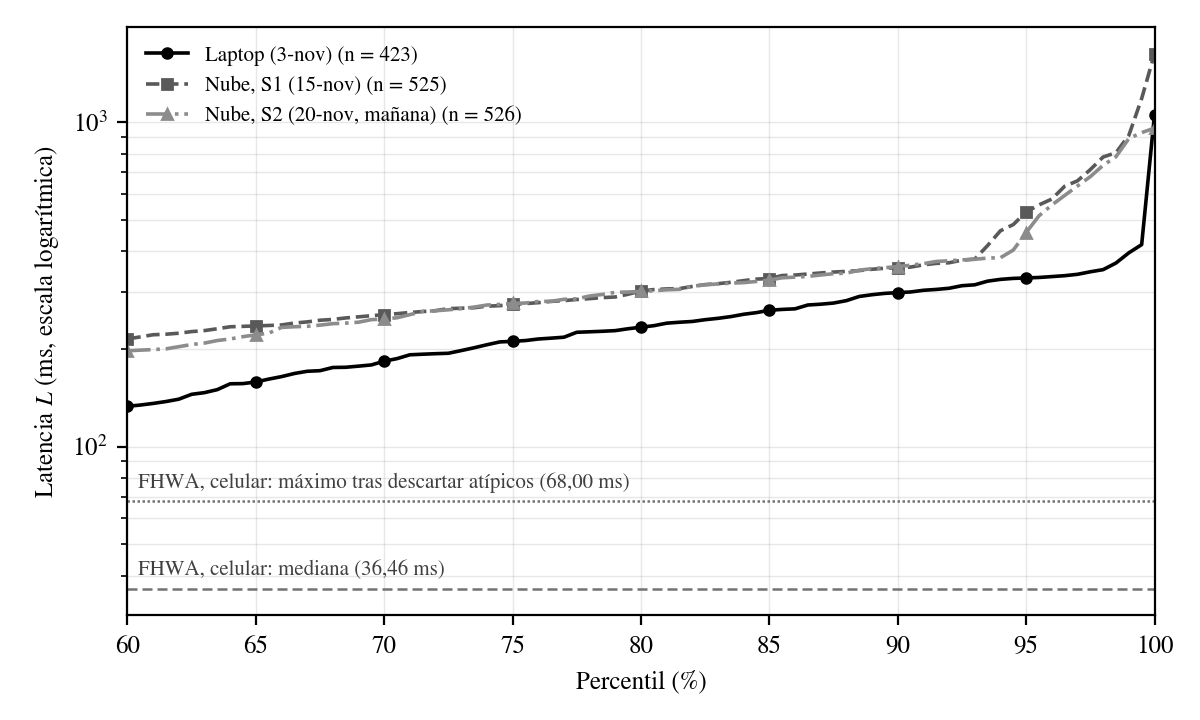
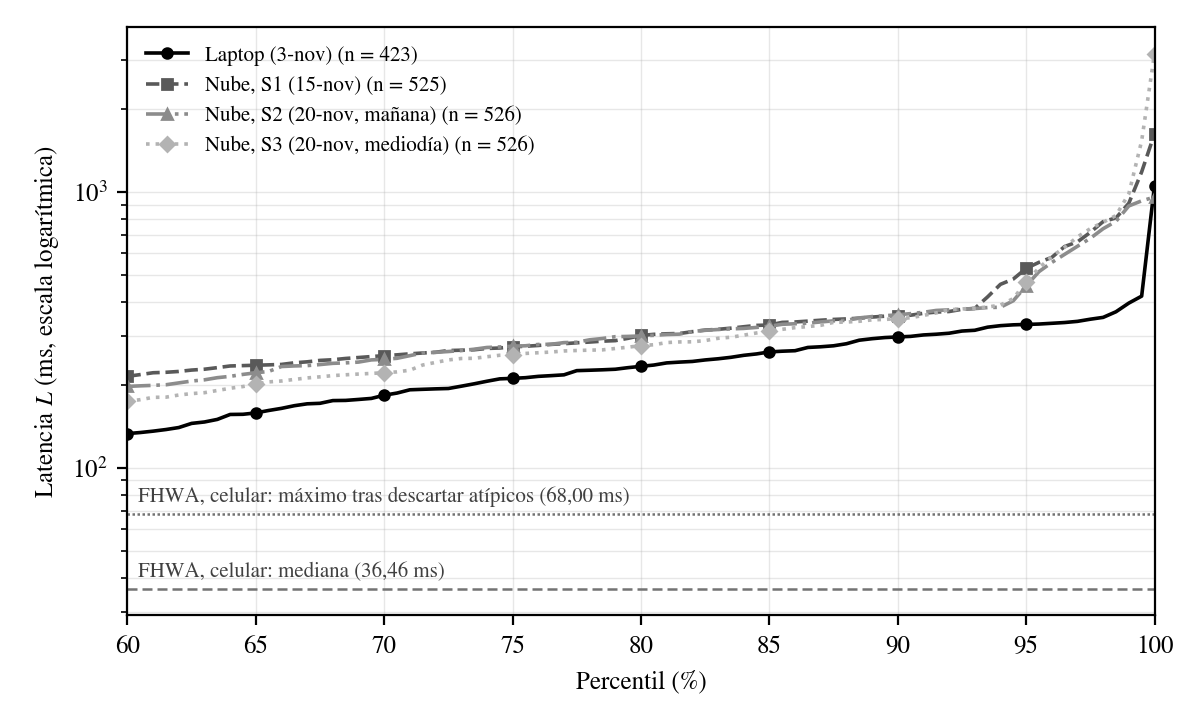
OE5: curva de L por percentil con la sesión 3 de la nube (20-nov, mediodía)

diff --git a/scripts/analisis/latencia_percentiles_fhwa.py b/scripts/analisis/latencia_percentiles_fhwa.py
@@ -39,6 +39,7 @@ SESIONES = {  # mismas corridas que scripts/analisis/campana_nube.py
     "Laptop (3-nov)": ["20261103-232704_lazo_pi-4g", "20261103-235034_desvio_pi-4g"],
     "Nube, S1 (15-nov)": ["20261115-222810_lazo_pi-4g", "20261115-233321_desvio_pi-4g"],
     "Nube, S2 (20-nov, mañana)": ["20261120-131856_lazo_pi-4g", "20261120-135406_desvio_pi-4g"],
+    "Nube, S3 (20-nov, mediodía)": ["20261120-174635_lazo_pi-4g", "20261120-182200_desvio_pi-4g"],
 }
 PERCENTILES = np.arange(60.0, 100.0 + 1e-9, 0.5)
 TABLA_P = (60, 70, 80, 90, 95, 99, 100)
